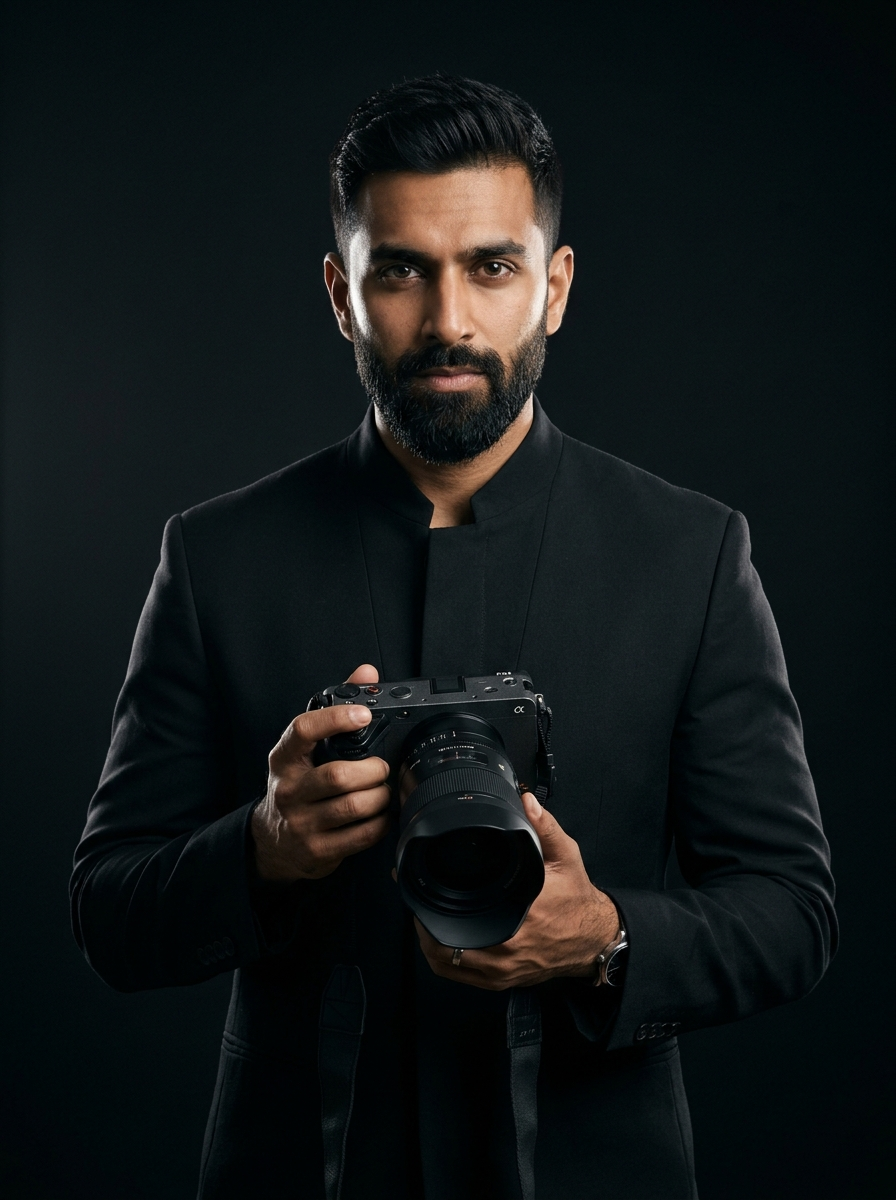
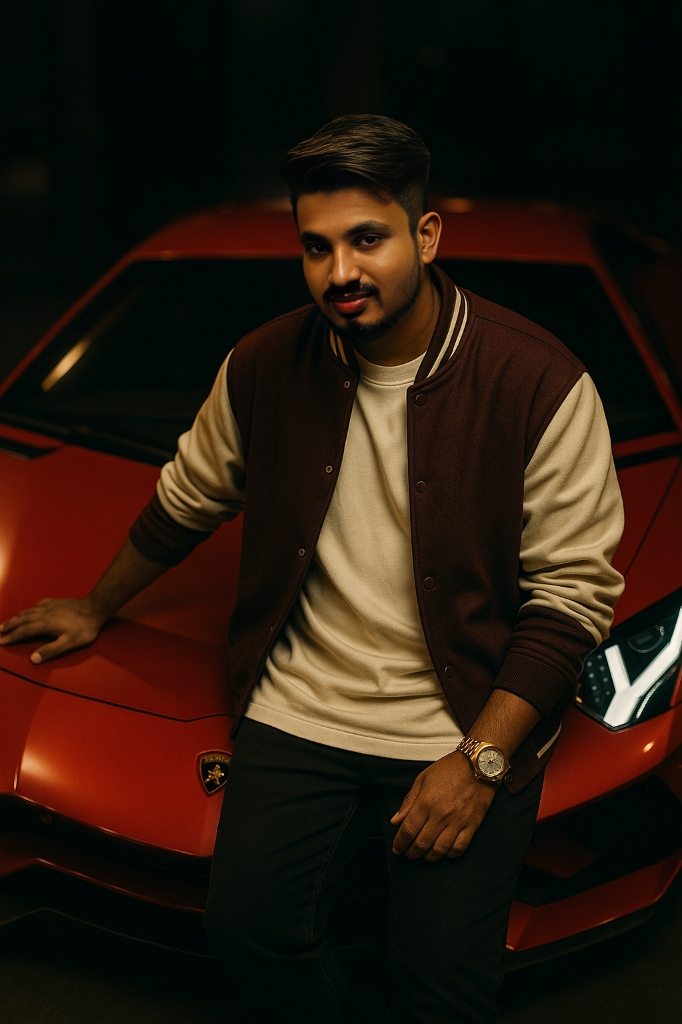
Update About section portrait photo

diff --git a/index.html b/index.html
@@ -35,7 +35,7 @@
     rel="stylesheet"
   />
 
-  <link rel="stylesheet" href="styles.css?v=4" />
+  <link rel="stylesheet" href="styles.css?v=5" />
 </head>
 <body>
   <a class="skip-link" href="#main-content">Skip to main content</a>
@@ -136,10 +136,10 @@
         <div class="portrait-frame">
           <div class="portrait-img-wrap">
             <img
-              src="assets/images/shekkeer-portrait.jpg"
-              alt="Portrait of Shekkeer Muhammed holding a professional camera in black attire"
-              width="900"
-              height="1200"
+              src="assets/images/shekkeer-portrait.jpg?v=2"
+              alt="Portrait of Shekkeer Muhammed leaning on a red supercar in a dark studio"
+              width="682"
+              height="1024"
               loading="lazy"
             />
           </div>

diff --git a/styles.css b/styles.css
@@ -635,7 +635,7 @@ ol {
 
 .portrait-img-wrap {
   position: relative;
-  aspect-ratio: 3 / 4;
+  aspect-ratio: 2 / 3;
   overflow: hidden;
   background-color: #050505;
 }
@@ -644,7 +644,7 @@ ol {
   width: 100%;
   height: 100%;
   object-fit: cover;
-  object-position: center top;
+  object-position: center center;
   transition: transform var(--dur-slow) var(--ease-out);
 }
 
